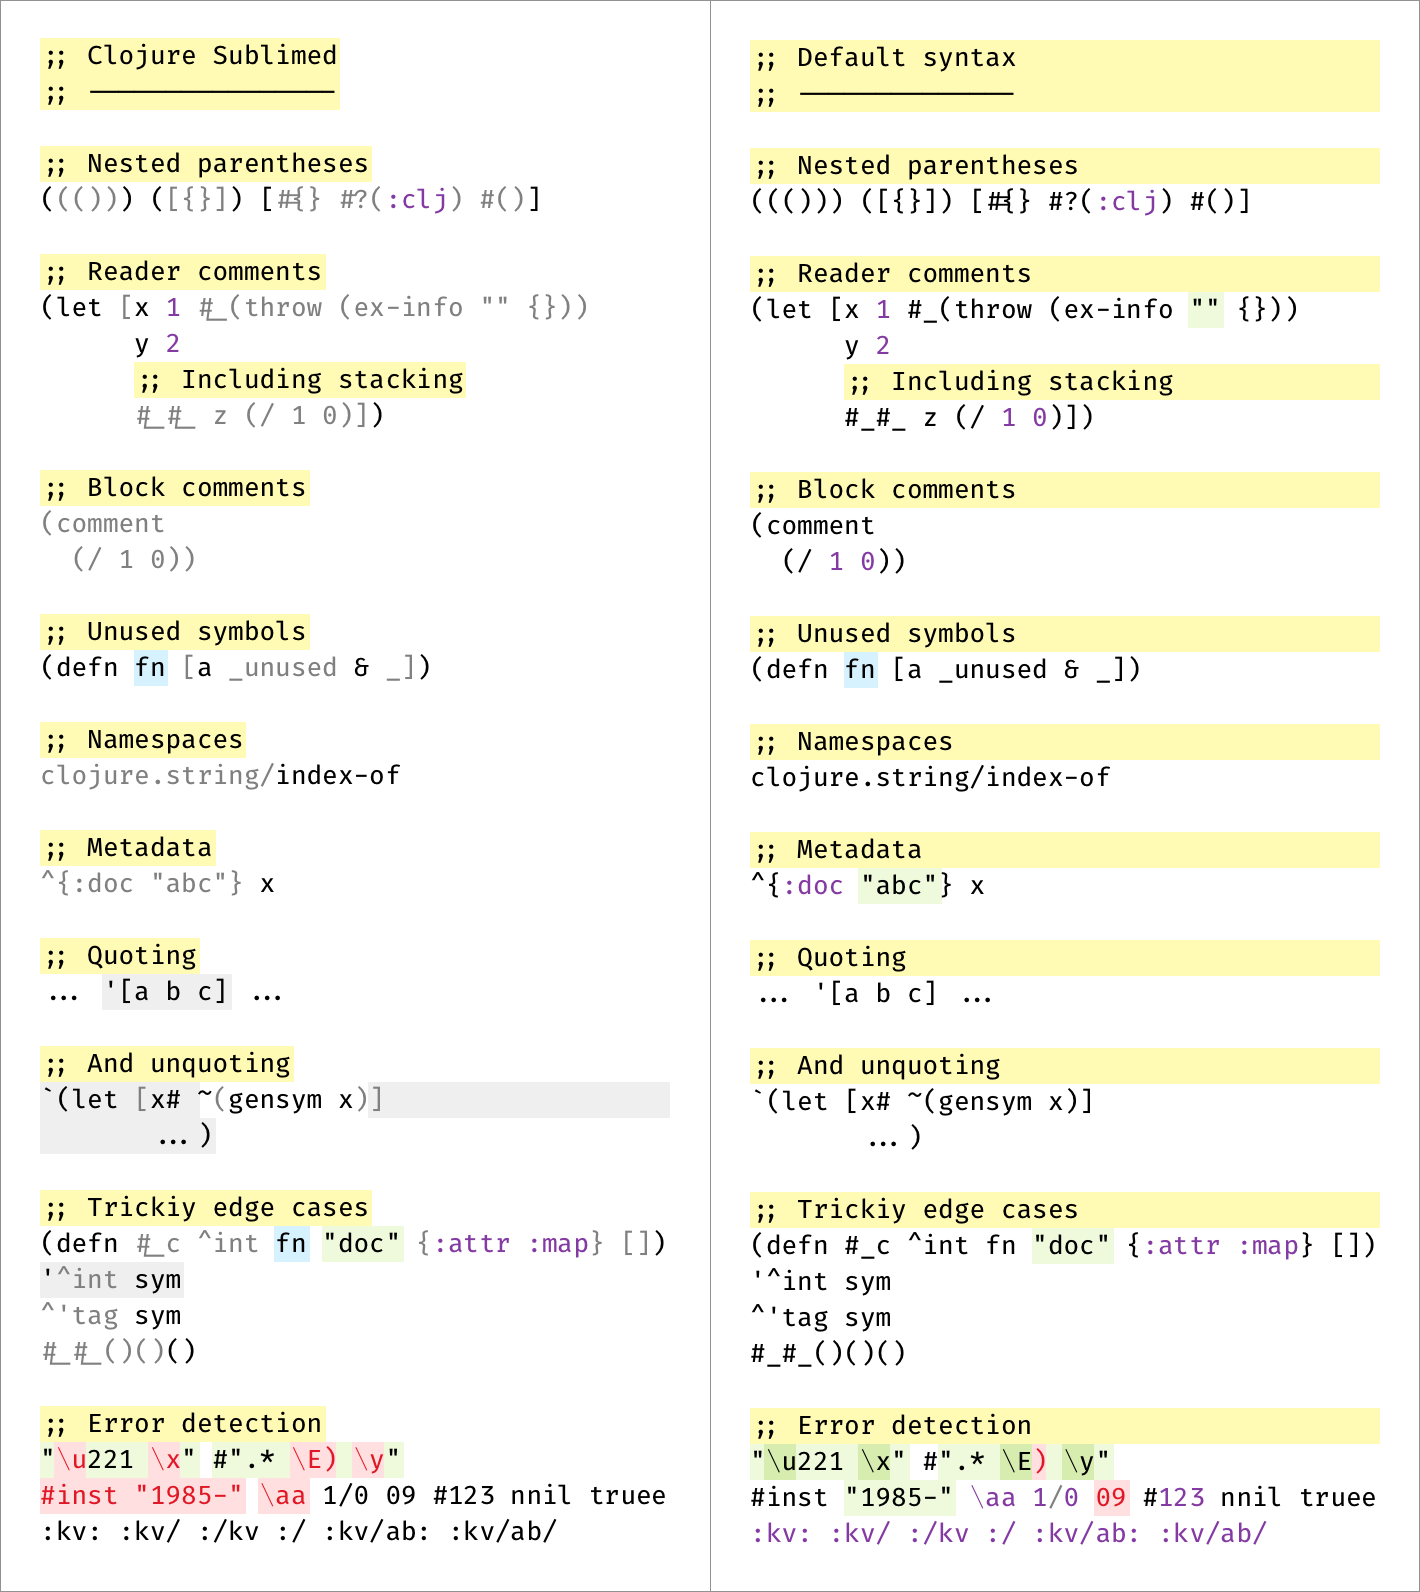
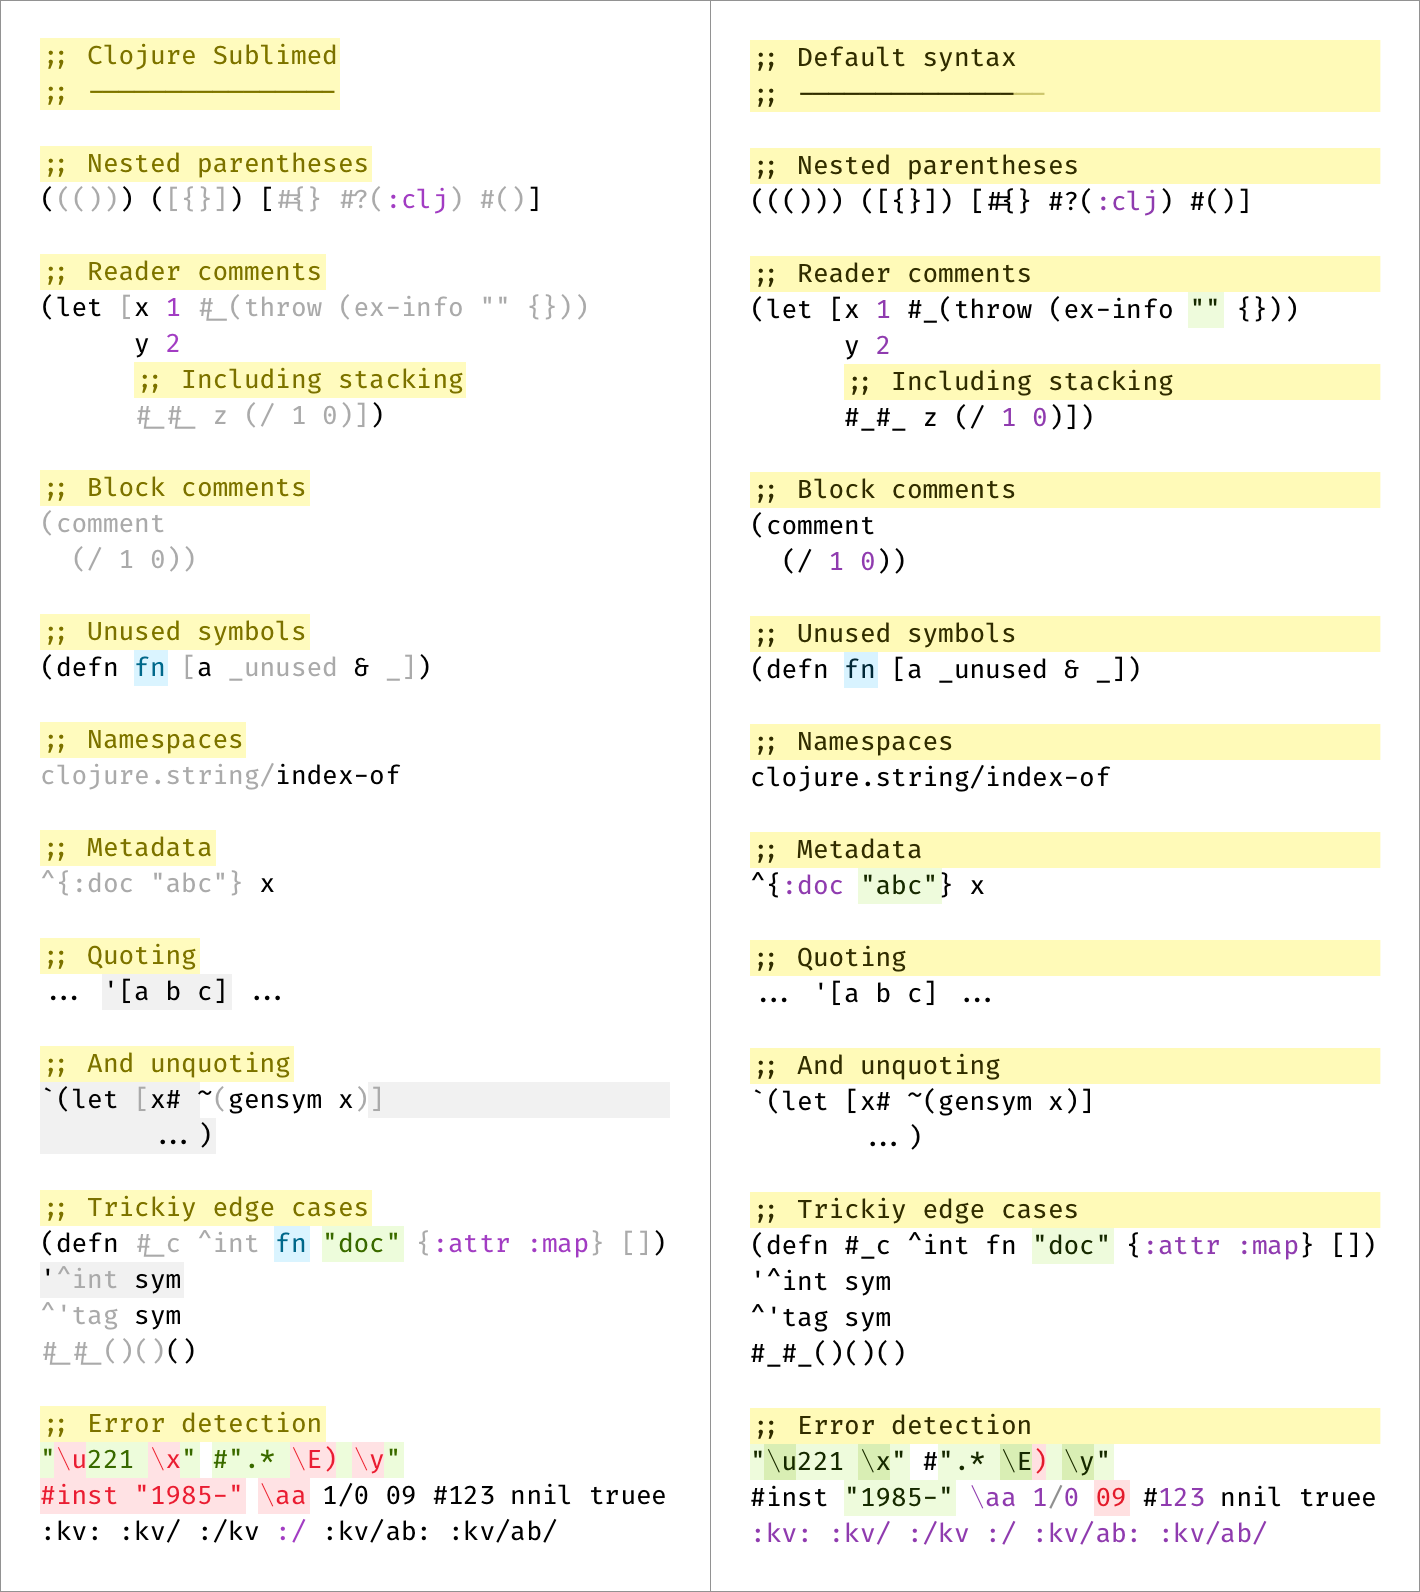
Color scheme adjustments

diff --git a/CHANGELOG.md b/CHANGELOG.md
@@ -1,3 +1,7 @@
+### WIP
+
+- Color scheme adjustments
+
 ### 4.3.2 - Dec 9, 2024
 
 - Clarified some symbol/keyword edge cases in syntax
